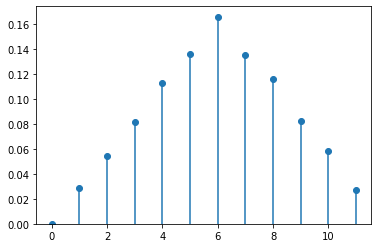
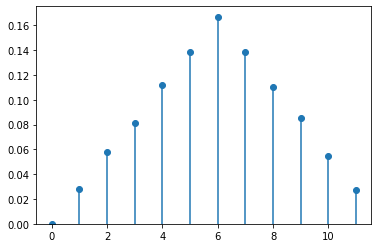
changes

diff --git a/_build/html/searchindex.js b/_build/html/searchindex.js
@@ -1,1 +1,1 @@
-Search.setIndex({docnames:["Rappels","intro"],envversion:{"sphinx.domains.c":2,"sphinx.domains.changeset":1,"sphinx.domains.citation":1,"sphinx.domains.cpp":3,"sphinx.domains.index":1,"sphinx.domains.javascript":2,"sphinx.domains.math":2,"sphinx.domains.python":3,"sphinx.domains.rst":2,"sphinx.domains.std":2,"sphinx.ext.intersphinx":1,"sphinxcontrib.bibtex":7,sphinx:56},filenames:["Rappels.md","intro.md"],objects:{},objnames:{},objtypes:{},terms:{"0":0,"07":0,"098":0,"0x1032af7f0":[],"0x107dd54f0":[],"1":0,"10":0,"100":[],"10000":0,"11":[],"12":0,"15":0,"1925":0,"19680801":[],"2":0,"20":0,"2014":[],"25":0,"3":0,"30":0,"36":0,"4":0,"428":0,"5":0,"50":0,"55":0,"5mm":0,"6":0,"7":0,"70":0,"8":[],"9":[],"\u00e0":0,"\u00e9crire":0,"\u00e9gale":0,"\u00e9galement":0,"\u00e9galit\u00e9":0,"\u00e9l\u00e9ment":0,"\u00e9l\u00e9mentair":0,"\u00e9quivalent":0,"\u00e9v\u00e8nement":[],"\u00e9videm":0,"\u00eatre":0,"achet\u00e9":0,"adapt\u00e9":0,"al\u00e9atoir":[],"appel\u00e9":0,"apr\u00e8":0,"associ\u00e9":0,"bay\u00e9sienn":0,"besan\u00e7on":0,"bor\u00e9lienn":0,"c\u00f4te":0,"calcul\u00e9":0,"cardinalit\u00e9":0,"compos\u00e9":0,"consid\u00e8r":0,"consid\u00e9r":0,"consid\u00e9r\u00e9":0,"d\u00e9":0,"d\u00e9duir":0,"d\u00e9fini":0,"d\u00e9finit":[],"d\u00e9nombrabl":0,"d\u00e9pass":0,"d\u00e9pend":0,"default":[],"diff\u00e9rent":0,"discr\u00e8t":0,"do":[],"donn\u00e9":0,"effectu\u00e9":0,"engendr\u00e9":0,"exp\u00e9rienc":[],"fabriqu\u00e9":0,"fran\u00e7ai":0,"function":[],"g\u00e9n\u00e9ralement":0,"g\u00e9n\u00e9ralis":0,"import":0,"inf\u00e9rieur":0,"int\u00e8grent":0,"int\u00e9ress":0,"int\u00e9ress\u00e9":0,"interpr\u00e9t":0,"interpr\u00e9t\u00e9":0,"lanc\u00e9":0,"mani\u00e8r":0,"null":0,"o\u00f9":0,"pi\u00e8c":0,"pr\u00e9c\u00e9dent":0,"pr\u00e9ciser":0,"pr\u00e9voir":0,"probabilis\u00e9":0,"probabilit\u00e9":[],"propri\u00e9t\u00e9":0,"r\u00e8gle":[],"r\u00e9alis":0,"r\u00e9alis\u00e9":0,"r\u00e9ell":0,"r\u00e9liser":[],"r\u00e9p\u00e9t\u00e9e":0,"r\u00e9pond":0,"r\u00e9sultat":0,"rattach\u00e9":0,"repr\u00e9sent":0,"return":0,"situ\u00e9":0,"sup\u00e9rieur":0,"suppl\u00e9mentair":0,"syst\u00e8m":0,"th\u00e9ori":0,"v\u00e9rifiant":0,A:[],As:[],But:[],For:[],If:[],In:[],It:[],On:0,That:[],The:[],There:[],With:[],_:0,_ioncontext:[],a_i:0,about:[],accept:[],add_:[],align:[],all:[],allow:[],alor:0,also:[],ami:[],amien:0,an:[],ani:[],appel:0,applic:0,approch:0,ar:[],arang:0,arrai:[],assert:0,ateli:0,atteint:0,au:0,auditori:[],australia:[],autr:0,avec:0,avoir:0,ax:[],axiom:0,b:0,b_1:0,b_2:0,b_3:0,b_i:0,b_k:0,bar:0,base:[],bay:[],begin:[],being:[],bib:[],bibliographi:[],bibtex:[],bien:0,bigcap:0,bigcap_:0,bigcup:0,bigcup_i:0,block:[],book:[],both:[],bottom:0,boulon:0,box:[],brian:[],brisban:[],build:[],built:[],bundl:[],c:0,ca:0,calcul:0,call:[],can:[],cancer:0,cap:0,cap_ia_i:0,cde:[],cdot:0,ce:0,certain:0,cett:0,chanc:0,chaqu:0,check:[],cherch:0,choisit:0,christoph:[],cite:[],clermont:0,cm:[],cmap:[],code:[],cognit:[],cold:[],color:[],command:[],commonmark:[],complet:0,compt:0,concept:[],concern:0,condit:0,confer:[],consist:0,content:[],continu:0,contrair:0,convert:[],coolwarm:[],cortex:[],creat:[],croissant:0,cup:0,cup_ia_i:0,custom_lin:[],cycler:[],d1:0,d2:0,d:0,dan:0,data:[],de:[],def:0,defin:[],depend:[],depth:[],detail:[],deux:0,diagramm:0,differ:[],dimens:0,dira:0,dire:0,direct:0,disjoint:0,displai:[],display_nam:[],displaystyl:0,distribut:0,dit:0,dite:0,dnombrer:0,document:[],doe:[],dollar:[],donc:0,donner:0,dont:0,droit:0,du:0,dure:0,e:0,ecosystem:[],effectu:0,ell:0,emb:[],emptyset:0,en:0,encor:0,end:[],ensembl:0,ensemblist:0,ensembm:0,escap:[],espac:0,est:0,et:[],etant:0,etc:[],evid:[],exact:0,exampl:[],execut:[],exempl:0,exist:0,experi:0,extens:[],f:0,f_x:0,fabric:0,face:0,fair:0,fait:0,famil:0,fauss:0,faut:0,feel:[],ferrand:0,few:[],fig:[],figsiz:[],file:[],fix:[],flavor:[],floor:0,follow:[],fonction:0,foral:0,form:0,formalis:0,format:[],format_nam:[],forment:0,fort:0,fournit:0,frac12:0,frac:0,from:0,frontier:[],fument:0,fumeur:0,get:[],give:[],go:[],grandeur:0,guid:[],have:[],hdhpk14:[],heer:[],help:[],here:[],holdgraf:[],holdgraf_evidence_2014:[],hot:[],how:[],html:[],human:[],i:0,ici:0,identiqu:0,ii:[],il:0,imag:0,impliqu:0,imposs:0,includ:[],incompat:0,inform:0,infti:0,init:[],inlin:[],input:[],insert:[],instruct:[],interact:[],intern:[],ion:[],ipynb:[],job:0,joue:0,jupyt:[],jupyterbook:[],jupytext:[],just:[],k:0,keep:[],kernel:[],kernelspec:[],kind:[],knight:[],l:0,la:0,la_:[],lancer:0,languag:[],le:[],left:0,legend:[],leq:0,let:[],lieu:0,like:[],line2d:[],line:[],linspac:[],ll:[],logspac:[],loi:0,lor:0,lorsqu:0,lot:[],lw:[],machin:0,mai:0,major:[],make:[],malad:0,mani:[],markdown:[],markdownfil:[],markedli:[],markup:[],math:0,mathbb:0,matplotlib:0,mbox:[],md:[],mean:[],medium:[],mesur:[],mid:0,modifi:0,moin:0,monnai:0,monoton:0,more:[],moreov:[],most:[],must:[],mutuel:0,myst:[],n:0,name:[],ne:0,need:[],neurosci:[],nombr:0,non:0,note:0,notebook:[],notion:0,nouvel:0,np:0,numpi:0,o:0,observ:0,obtenir:0,obtenu:0,obtenur:[],off:[],omega:0,one:[],org:[],other:[],ou:0,out:[],output:[],ouvert:0,overview:[],p:0,p_x:0,pa:0,page:[],pair:0,par:0,parl:0,parti:0,particular:[],particuli:0,partir:0,partit:0,paslei:[],path:[],peut:0,peuvent:0,pile:0,plot:0,plt:0,plu:0,point:0,post:[],posteriori:0,poumon:0,pour:0,power:[],pratiqu:0,predict:[],prendr:0,prendra:0,presenc:[],prf:[],print:[],priori:0,prise:0,probabilis:0,probabilist:0,prod_:0,product:0,produit:0,prop_cycl:[],properli:[],purement:0,purpos:[],pyplot:0,python3:[],python:[],qu:0,quad:0,que:0,quelconqu:0,quell:0,question:0,qui:0,r:0,ramsai:[],randn:[],random:0,rang:0,rappel:1,rapport:0,rcparam:[],recherch:0,refer:[],regular:[],remarquon:0,render:[],reproduc:[],resp:0,respectiv:0,rest:[],right:0,rightarrow:0,robert:[],run:[],s:0,sachant:0,sachnt:[],same:[],sampl:[],se:0,see:[],seed:[],selon:0,serv:[],setminu:0,seulement:0,should:[],show:0,si:0,sign:[],similar:[],simpl:0,singleton:0,slight:[],small:[],so:[],soit:0,some:[],somm:0,sont:0,sou:0,souvent:0,span:[],special:[],specif:[],sphinx:[],stand:[],start:[],starter:[],state:[],store:[],structur:[],subplot:[],subset:0,suffit:0,suit:0,suivant:0,sum_i:0,sum_ip:0,sum_k:0,support:[],sur:[],sure:[],syntax:[],t:0,taill:0,tell:0,tex:[],text:[],text_represent:[],thei:[],thi:[],thing:[],those:[],tirag:0,tool:[],top:[],topic:[],tout:0,transport:0,traver:0,treat:[],troi:0,two:[],type:[],un:0,understand:[],union:0,uniqu:0,us:[],usag:0,usin:0,utilis:[],valeur:0,variabl:[],variant:0,variat:[],vecteur:0,venn:0,vline:0,vraie:0,vue:0,want:[],well:[],wendi:[],when:[],wherea:[],whether:[],which:[],work:[],write:[],written:[],x:0,ylim:0,you:[],your:[],zero:0},titles:["Rappels","Introduction"],titleterms:{"3":[],"\u00e9v\u00e8nement":0,"al\u00e9atoir":0,"d\u00e9finit":0,"donn\u00e9":[],"ev\u00e8nement":0,"exp\u00e9rienc":0,"ind\u00e9pend":0,"op\u00e9rat":0,"probabilit\u00e9":0,"r\u00e8gle":0,"th\u00e9or\u00e8m":0,A:0,adbook:[],add:[],an:[],analys:[],autour:0,axiomatiqu:0,bay:0,block:[],book:[],cell:[],citat:[],code:[],concept:0,conditionn:0,conditionnel:0,content:[],cour:[],creat:[],d:[],de:0,directiv:[],display_nam:[],et:0,exampl:[],extens:[],file:[],format:[],format_nam:[],introduct:1,issu:0,jupyt:[],jupytext:[],kernelspec:[],kolmogorov:0,languag:[],le:0,learn:[],markdown:[],md:[],mesur:0,mesurab:0,metadata:[],more:[],myst:[],name:[],notat:0,notebook:[],objectif:0,output:[],possibl:0,python3:[],python:[],quickli:[],rappel:0,role:[],sampl:[],sur:0,text_represent:[],total:0,tribu:0,univ:0,variabl:0,welcom:[],what:[],yaml:[],your:[]}})
+Search.setIndex({docnames:["Rappels","intro"],envversion:{"sphinx.domains.c":2,"sphinx.domains.changeset":1,"sphinx.domains.citation":1,"sphinx.domains.cpp":3,"sphinx.domains.index":1,"sphinx.domains.javascript":2,"sphinx.domains.math":2,"sphinx.domains.python":3,"sphinx.domains.rst":2,"sphinx.domains.std":2,"sphinx.ext.intersphinx":1,"sphinxcontrib.bibtex":7,sphinx:56},filenames:["Rappels.md","intro.md"],objects:{},objnames:{},objtypes:{},terms:{"0":0,"07":0,"098":0,"0x1032af7f0":[],"0x107dd54f0":[],"1":0,"10":0,"100":[],"10000":0,"11":[],"12":0,"15":0,"1925":0,"19680801":[],"2":0,"20":0,"2014":[],"25":0,"3":0,"30":0,"36":0,"4":0,"428":0,"5":0,"50":0,"55":0,"5mm":0,"6":0,"7":0,"70":0,"8":[],"9":[],"\u00e0":0,"\u00e9crire":0,"\u00e9gale":0,"\u00e9galement":0,"\u00e9galit\u00e9":0,"\u00e9l\u00e9ment":0,"\u00e9l\u00e9mentair":0,"\u00e9quivalent":0,"\u00e9v\u00e8nement":[],"\u00e9videm":0,"\u00eatre":0,"achet\u00e9":0,"adapt\u00e9":0,"al\u00e9atoir":[],"appel\u00e9":0,"apr\u00e8":0,"associ\u00e9":0,"bay\u00e9sienn":0,"besan\u00e7on":0,"bor\u00e9lienn":0,"c\u00f4te":0,"calcul\u00e9":0,"cardinalit\u00e9":0,"compos\u00e9":0,"consid\u00e8r":0,"consid\u00e9r":0,"consid\u00e9r\u00e9":0,"d\u00e9":0,"d\u00e9duir":0,"d\u00e9fini":0,"d\u00e9finit":[],"d\u00e9nombrabl":0,"d\u00e9pass":0,"d\u00e9pend":0,"default":[],"diff\u00e9rent":0,"discr\u00e8t":0,"do":[],"donn\u00e9":0,"effectu\u00e9":0,"engendr\u00e9":0,"exp\u00e9rienc":[],"fabriqu\u00e9":0,"fran\u00e7ai":0,"function":[],"g\u00e9n\u00e9ralement":0,"g\u00e9n\u00e9ralis":0,"import":0,"inf\u00e9rieur":0,"int\u00e8grent":0,"int\u00e9ress":0,"int\u00e9ress\u00e9":0,"interpr\u00e9t":0,"interpr\u00e9t\u00e9":0,"lanc\u00e9":0,"mani\u00e8r":0,"null":0,"o\u00f9":0,"pi\u00e8c":0,"pr\u00e9c\u00e9dent":0,"pr\u00e9ciser":0,"pr\u00e9voir":0,"probabilis\u00e9":0,"probabilit\u00e9":[],"propri\u00e9t\u00e9":0,"r\u00e8gle":[],"r\u00e9alis":0,"r\u00e9alis\u00e9":0,"r\u00e9ell":0,"r\u00e9liser":[],"r\u00e9p\u00e9t\u00e9e":0,"r\u00e9pond":0,"r\u00e9sultat":0,"rattach\u00e9":0,"repr\u00e9sent":0,"return":0,"situ\u00e9":0,"sup\u00e9rieur":0,"suppl\u00e9mentair":0,"syst\u00e8m":0,"th\u00e9ori":0,"v\u00e9rifiant":0,A:[],As:[],But:[],For:[],If:[],In:[],It:[],On:0,That:[],The:[],There:[],With:[],_:0,_ioncontext:[],a_i:0,about:[],accept:[],add_:[],align:[],all:[],allow:[],alor:0,also:[],ami:[],amien:0,an:[],ani:[],appel:0,applic:0,approch:0,ar:[],arang:0,arrai:[],assert:0,ateli:0,atteint:0,au:0,auditori:[],australia:[],autr:0,avec:0,avoir:0,ax:[],axiom:0,b:0,b_1:0,b_2:0,b_3:0,b_i:0,b_k:0,bar:0,base:[],bay:[],begin:[],being:[],bib:[],bibliographi:[],bibtex:[],bien:0,bigcap:0,bigcap_:0,bigcup:0,bigcup_i:0,block:[],book:[],both:[],bottom:0,boulon:0,box:[],brian:[],brisban:[],build:[],built:[],bundl:[],c:0,ca:0,calcul:0,call:[],can:[],cancer:0,cap:0,cap_ia_i:0,cde:[],cdot:0,ce:0,certain:0,cett:0,chanc:0,chaqu:0,check:[],cherch:0,choisit:0,christoph:[],cite:[],clermont:0,cm:[],cmap:[],code:[],cognit:[],cold:[],color:[],command:[],commonmark:[],complet:0,compt:0,concept:[],concern:0,condit:0,confer:[],consist:0,content:[],continu:0,contrair:0,convert:[],coolwarm:[],cortex:[],creat:[],croissant:0,cup:0,cup_ia_i:0,custom_lin:[],cycler:[],d1:0,d2:0,d:0,dan:0,data:[],de:[],def:0,defin:[],depend:[],depth:[],detail:[],deux:0,diagramm:0,differ:[],dimens:0,dira:0,dire:0,direct:0,disjoint:0,displai:[],display_nam:[],displaystyl:0,distribut:0,dit:0,dite:0,dnombrer:0,document:[],doe:[],dollar:[],donc:0,donner:0,dont:0,droit:0,du:0,dure:0,e:0,ecosystem:[],effectu:0,ell:0,emb:[],emptyset:0,en:0,encor:0,end:[],ensembl:0,ensemblist:0,ensembm:0,escap:[],espac:0,est:0,et:[],etant:0,etc:[],evid:[],exact:0,exampl:[],execut:[],exempl:0,exist:0,experi:0,extens:[],f:0,f_x:0,fabric:0,face:0,fair:0,fait:0,famil:0,fauss:0,faut:0,feel:[],ferrand:0,few:[],fig:[],figsiz:[],file:[],fix:[],flavor:[],floor:0,follow:[],fonction:[],foral:0,form:0,formalis:0,format:[],format_nam:[],forment:0,fort:0,fournit:0,frac12:0,frac:0,from:0,frontier:[],fument:0,fumeur:0,get:[],give:[],go:[],grandeur:0,guid:[],have:[],hdhpk14:[],heer:[],help:[],here:[],holdgraf:[],holdgraf_evidence_2014:[],hot:[],how:[],html:[],human:[],i:0,ici:0,identiqu:0,ii:[],il:0,imag:0,impliqu:0,imposs:0,includ:[],incompat:0,inform:0,infti:0,init:[],inlin:[],input:[],insert:[],instruct:[],interact:[],intern:[],ion:[],ipynb:[],job:0,joue:0,jupyt:[],jupyterbook:[],jupytext:[],just:[],k:0,keep:[],kernel:[],kernelspec:[],kind:[],knight:[],l:0,la:0,la_:[],lancer:0,languag:[],le:[],left:0,legend:[],leq:0,let:[],lieu:0,like:[],line2d:[],line:[],linspac:[],ll:[],logspac:[],loi:0,lor:0,lorsqu:0,lot:[],lw:[],machin:0,mai:0,major:[],make:[],malad:0,mani:[],markdown:[],markdownfil:[],markedli:[],markup:[],math:0,mathbb:0,matplotlib:0,mbox:[],md:[],mean:[],medium:[],mesur:[],mid:0,modifi:0,moin:0,monnai:0,monoton:0,more:[],moreov:[],most:[],must:[],mutuel:0,myst:[],n:0,name:[],ne:0,need:[],neurosci:[],nombr:0,non:0,note:0,notebook:[],notion:0,nouvel:0,np:0,numpi:0,o:0,observ:0,obtenir:0,obtenu:0,obtenur:[],off:[],omega:0,one:[],org:[],other:[],ou:0,out:[],output:[],ouvert:0,overview:[],p:0,p_x:0,pa:0,page:[],pair:0,par:0,parl:0,parti:0,particular:[],particuli:0,partir:0,partit:0,paslei:[],path:[],peut:0,peuvent:0,pile:0,plot:0,plt:0,plu:0,point:0,post:[],posteriori:0,poumon:0,pour:0,power:[],pratiqu:0,predict:[],prendr:0,prendra:0,presenc:[],prf:[],print:[],priori:0,prise:0,probabilis:0,probabilist:0,prod_:0,product:0,produit:0,prop_cycl:[],properli:[],purement:0,purpos:[],pyplot:0,python3:[],python:[],qu:0,quad:0,que:0,quelconqu:0,quell:0,question:0,qui:0,r:0,ramsai:[],randn:[],random:0,rang:0,rappel:1,rapport:0,rcparam:[],recherch:0,refer:[],regular:[],remarquon:0,render:[],reproduc:[],resp:0,respectiv:0,rest:[],right:0,rightarrow:0,robert:[],run:[],s:0,sachant:0,sachnt:[],same:[],sampl:[],se:0,see:[],seed:[],selon:0,serv:[],setminu:0,seulement:0,should:[],show:0,si:0,sign:[],similar:[],simpl:0,singleton:0,slight:[],small:[],so:[],soit:0,some:[],somm:0,sont:0,sou:0,souvent:0,span:[],special:[],specif:[],sphinx:[],stand:[],start:[],starter:[],state:[],store:[],structur:[],subplot:[],subset:0,suffit:0,suit:0,suivant:0,sum_i:0,sum_ip:0,sum_k:0,support:[],sur:[],sure:[],syntax:[],t:0,taill:0,tell:0,tex:[],text:[],text_represent:[],thei:[],thi:[],thing:[],those:[],tirag:0,tool:[],top:[],topic:[],tout:0,transport:0,traver:0,treat:[],troi:0,two:[],type:[],un:0,understand:[],union:0,uniqu:0,us:[],usag:0,usin:0,utilis:[],valeur:0,variabl:[],variant:0,variat:[],vecteur:0,venn:0,vline:0,vraie:0,vue:0,want:[],well:[],wendi:[],when:[],wherea:[],whether:[],which:[],work:[],write:[],written:[],x:0,ylim:0,you:[],your:[],zero:0},titles:["Rappels","Introduction"],titleterms:{"3":[],"\u00e9v\u00e8nement":0,"al\u00e9atoir":0,"d\u00e9finit":0,"donn\u00e9":[],"ev\u00e8nement":0,"exp\u00e9rienc":0,"ind\u00e9pend":0,"op\u00e9rat":0,"probabilit\u00e9":0,"r\u00e8gle":0,"r\u00e9partit":0,"th\u00e9or\u00e8m":0,A:0,adbook:[],add:[],an:[],analys:[],autour:0,axiomatiqu:0,bay:0,block:[],book:[],cell:[],citat:[],code:[],concept:0,conditionn:0,conditionnel:0,content:[],cour:[],creat:[],d:[],de:0,directiv:[],display_nam:[],et:0,exampl:[],extens:[],file:[],fonction:0,format:[],format_nam:[],introduct:1,issu:0,jupyt:[],jupytext:[],kernelspec:[],kolmogorov:0,languag:[],le:0,learn:[],markdown:[],md:[],mesur:0,mesurab:0,metadata:[],more:[],myst:[],name:[],notat:0,notebook:[],objectif:0,output:[],possibl:0,python3:[],python:[],quickli:[],rappel:0,role:[],sampl:[],sur:0,text_represent:[],total:0,tribu:0,univ:0,variabl:0,welcom:[],what:[],yaml:[],your:[]}})

diff --git a/_build/html/Rappels.html b/_build/html/Rappels.html
@@ -833,7 +833,12 @@ On a alors <span class="math notranslate nohighlight">\(P(A\mid B) = \frac{P(A\b
 </div></div>
 <div class="section" id="autour-des-variables-aleatoires">
 <h3>Autour des variables aléatoires<a class="headerlink" href="#autour-des-variables-aleatoires" title="Permalink to this headline">#</a></h3>
-<p><span class="math notranslate nohighlight">\(F_X\)</span> est donc monotone croissante, continue à droite et <span class="math notranslate nohighlight">\(P(a\leq X\leq b) = F_X(b)-F_X(a)\)</span></p>
+<div class="proof definition admonition" id="definition-23">
+<p class="admonition-title"><span class="caption-number">Definition 11 </span> (Fonction de répartition)</p>
+<div class="definition-content section" id="proof-content">
+<p>La fonction de répartition d’une variable aléatoire <span class="math notranslate nohighlight">\(X\)</span> est l’application <span class="math notranslate nohighlight">\(F_X\)</span> de <span class="math notranslate nohighlight">\(\mathbb R\)</span> dans [0,1] telle que <span class="math notranslate nohighlight">\(F_X(x) = P(X\leq x)\)</span>.</p>
+</div>
+</div><p><span class="math notranslate nohighlight">\(F_X\)</span> est donc monotone croissante, continue à droite et <span class="math notranslate nohighlight">\(P(a\leq X\leq b) = F_X(b)-F_X(a)\)</span></p>
 </div>
 </div>
 </div>

diff --git a/_build/html/prf-prf.html b/_build/html/prf-prf.html
@@ -264,6 +264,7 @@ title="Open an issue"
    <a href="#cap-definition-18"><strong>definition-18</strong></a> | 
    <a href="#cap-definition-20"><strong>definition-20</strong></a> | 
    <a href="#cap-definition-21"><strong>definition-21</strong></a> | 
+   <a href="#cap-definition-23"><strong>definition-23</strong></a> | 
    <a href="#cap-evenement"><strong>evenement</strong></a> | 
    <a href="#cap-example-1"><strong>example-1</strong></a> | 
    <a href="#cap-example-12"><strong>example-12</strong></a> | 
@@ -331,6 +332,14 @@ title="Open an issue"
        <td></td>
        <td>
        <a href="Rappels.html#definition-21"><code class="xref">definition-21</code></a> <em>(Rappels)</em></td><td>
+       <em>definition</em></td></tr>
+     <tr class="pcap"><td></td><td>&#160;</td><td></td></tr>
+     <tr class="cap" id="cap-definition-23"><td></td><td>
+       <strong>definition-23</strong></td><td></td></tr>
+     <tr>
+       <td></td>
+       <td>
+       <a href="Rappels.html#definition-23"><code class="xref">definition-23</code></a> <em>(Rappels)</em></td><td>
        <em>definition</em></td></tr>
      <tr class="pcap"><td></td><td>&#160;</td><td></td></tr>
      <tr class="cap" id="cap-evenement"><td></td><td>

diff --git a/_build/jupyter_execute/Rappels.py b/_build/jupyter_execute/Rappels.py
@@ -258,7 +258,7 @@ plt.show()
 # 
 # ### Autour des variables aléatoires
 # 
-# ```{prf:defin} Fonction de répartition
+# ```{prf:definition} Fonction de répartition
 # La fonction de répartition d'une variable aléatoire $X$ est l'application $F_X$ de $\mathbb R$ dans [0,1] telle que $F_X(x) = P(X\leq x)$.
 # ```
 # 

diff --git a/Rappels.md b/Rappels.md
@@ -271,3 +271,32 @@ La fonction de répartition d'une variable aléatoire $X$ est l'application $F_X
 $F_X$ est donc monotone croissante, continue à droite et $P(a\leq X\leq b) = F_X(b)-F_X(a)$
 
 
+```{code-cell} ipython3
+from math import floor
+from random import random
+import numpy as np
+import matplotlib.pyplot as plt
+
+def tirage():
+    d1=floor(6*random()+1)   
+    d2=floor(6*random()+1)  
+    return d1+d2 -1          
+
+x = np.arange(0,12)
+f = np.zeros(12)
+n=10000                       
+for i in range(n):        
+    f[tirage() ] += 1
+f=f/n                      
+plt.subplot(121)
+plt.plot( x, f, 'o' )   
+plt.vlines( x, 0, f )   
+plt.ylim( bottom=0 ) 
+plt.subplot(122)
+plt.plot( x, f, 'o' )   
+plt.vlines( x, 0, f )   
+plt.ylim( bottom=0 ) 
+plt.show()
+```
+
+

diff --git a/_build/html/_sources/Rappels.md b/_build/html/_sources/Rappels.md
@@ -264,7 +264,7 @@ Une variable aléatoire est une application mesurable $X:(\Omega,T,P) \rightarro
 
 ### Autour des variables aléatoires
 
-```{prf:defin} Fonction de répartition
+```{prf:definition} Fonction de répartition
 La fonction de répartition d'une variable aléatoire $X$ est l'application $F_X$ de $\mathbb R$ dans [0,1] telle que $F_X(x) = P(X\leq x)$.
 ```
 
